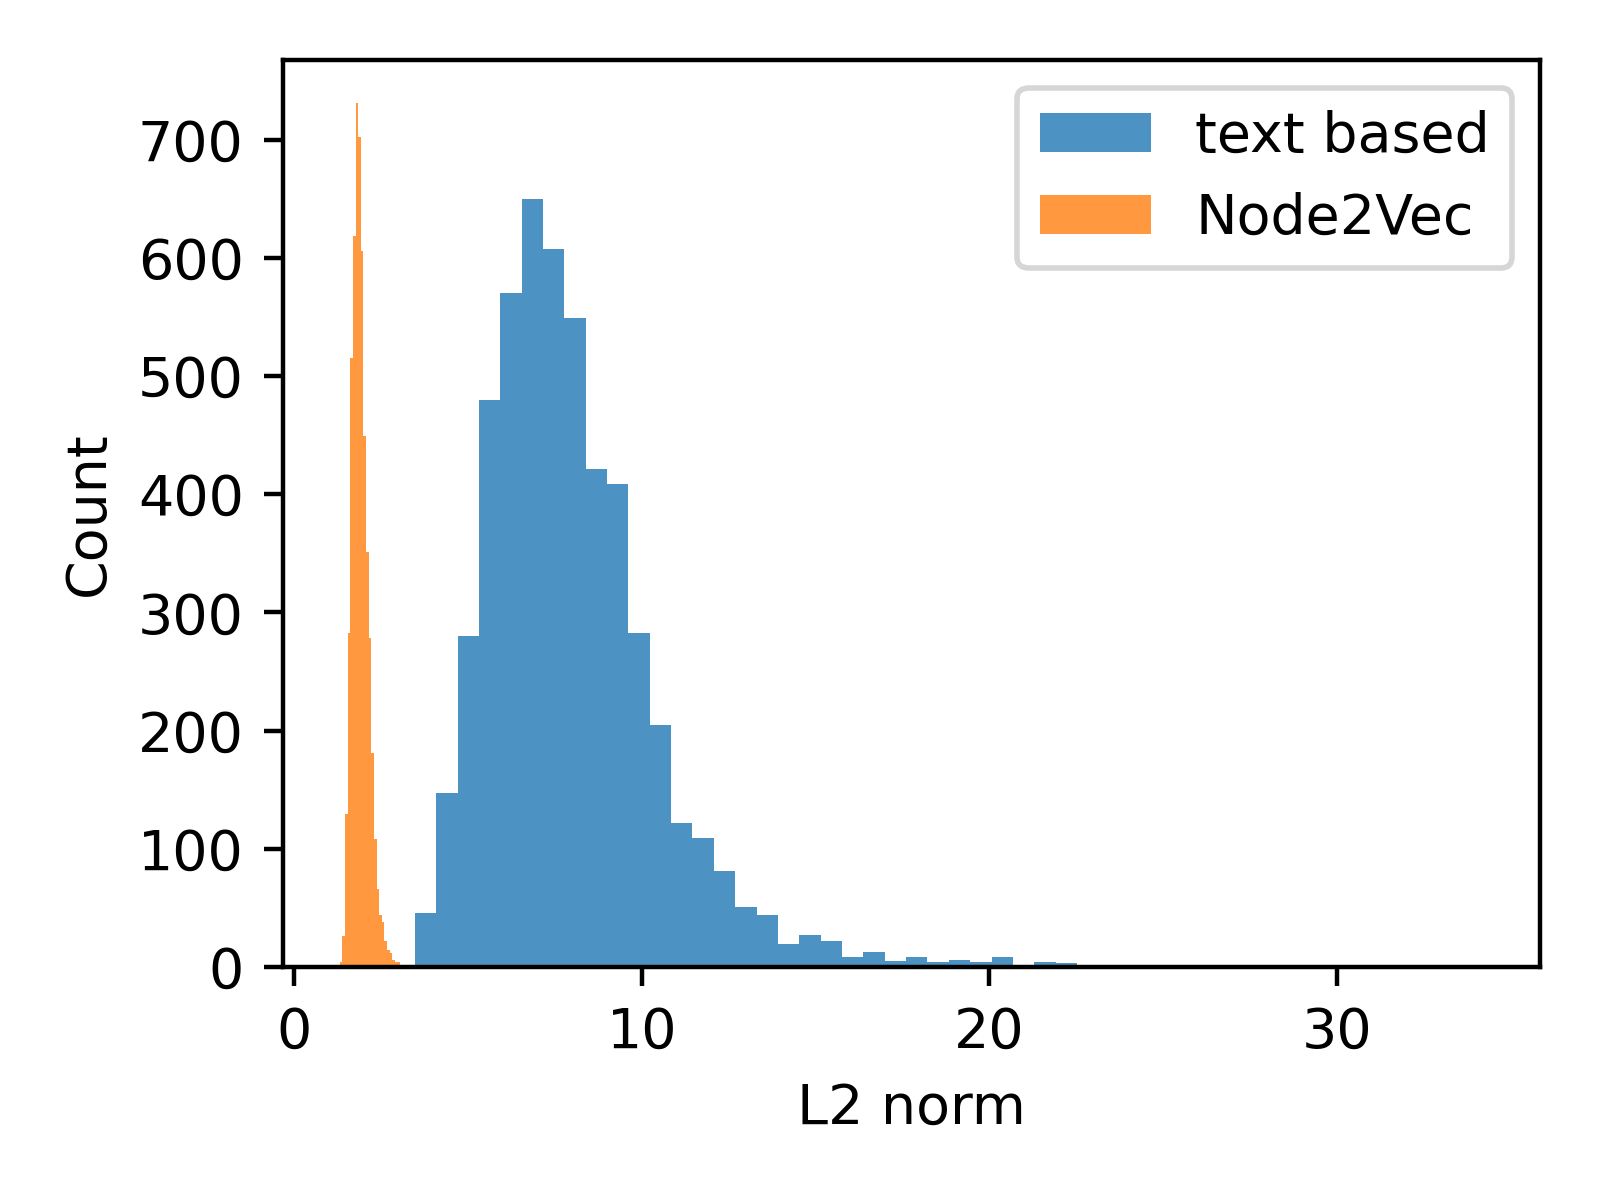
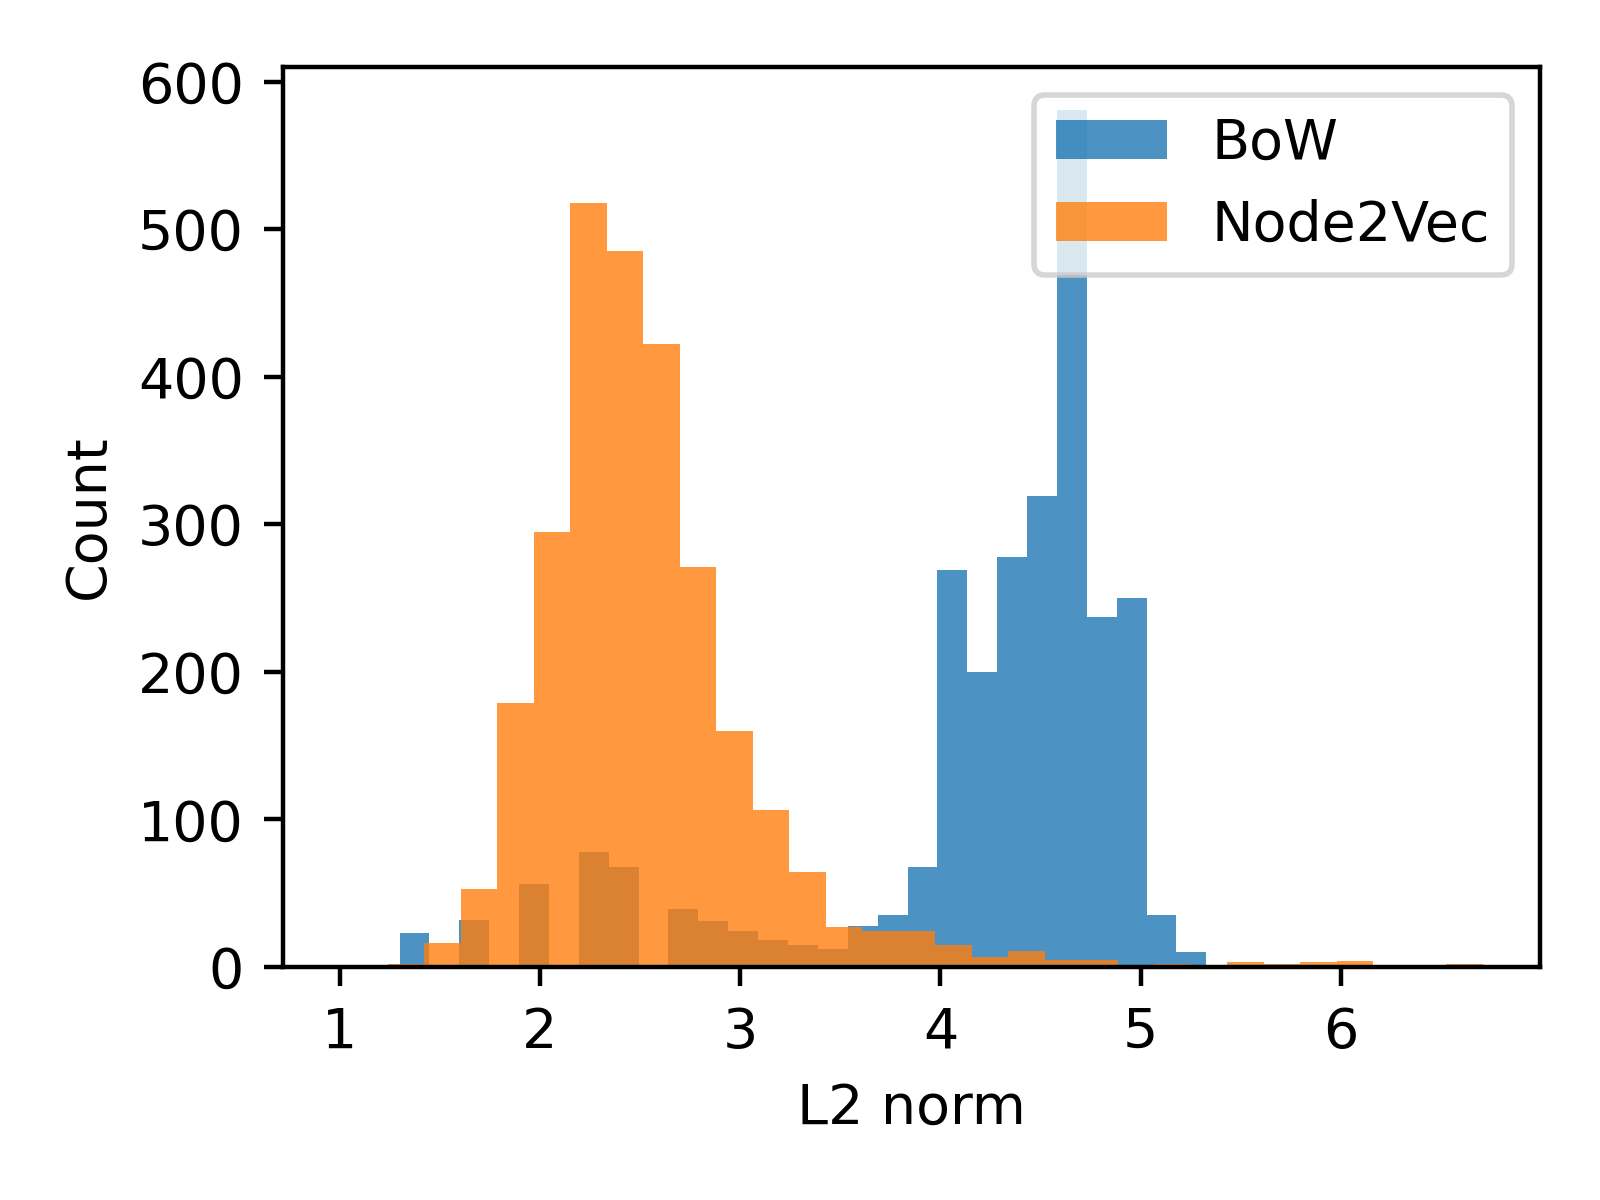
Improve introduction and N2V

diff --git a/docs/use_cases/node2vec.md b/docs/use_cases/node2vec.md
@@ -2,18 +2,18 @@
 
 ## Introduction
 
-Information comes in various forms such as text, images, relations and more, each capturing a different perspective of the world. Relations are particularly interesting because they capture the interactions between different entities and can provide insights into the structure and dynamics of the network they form. In this post, we will focus on how we can leverage relational information to learn meaningful representations of entities in a network. 
+Different types of information, like words, pictures, and connections between things, show us different sides of the world. Relationships, especially, are interesting because they show how things interact and create networks. In this article, we'll talk about how we can use these relationships to understand and describe things in a network better.
 
-We will introduce two node representation learning techniques, Node2Vec trough an example dataset. This dataset is …
+We're diving into a real-life example to explain how entities can be turned into vectors using their connections, a common practice in machine learning. The dataset we're going to work with is the a subset of the Cora citation network. It comprises 2708 scientific papers (nodes) and the connections indicate citations between them. Each paper has a BoW (Bag-of-Words) descriptor. The challenge at hand involves predicting the specific scientific category to which each paper belongs to, selecting from a pool of seven distinct categories.
 
-We can load the dataset as follows:
+The dataset can be loaded as follows:
 
 ```python
-from torch_geometric.datasets import AttributedGraphDataset
-ds = AttributedGraphDataset("./data", "wiki")[0]
+from torch_geometric.datasets import Planetoid
+ds = Planetoid("./data", "Cora")[0]
 ```
 
-We will evaluate representations by measuring classification performance on this dataset. A KNN classifier will be used with 15 neighbors and cosine similarity as the similarity metric. Accuracy and Macro F1 scores will be computed to measure the classification performance.
+We will evaluate representations by measuring the classification performance (Accuracy and macro F1). We'll use a KNN (K-Nearest Neighbors) classifier with 15 neighbors and cosine similarity as the similarity metric:
 
 ```python
 from sklearn.neighbors import KNeighborsClassifier
@@ -30,41 +30,41 @@ def evaluate(x,y):
     print("F1 macro", f1_score(y_test, y_pred, average="macro"))
 ```
 
-First, we will explore how text-based representations can be used to solve the classification problem:
+First, we'll see how the BoW representations can be used to solve the classification problem:
 
 ```python
 evaluate(ds.x, ds.y)
->>> Accuracy 0.849
->>> F1 macro 0.849
+>>> Accuracy 0.735
+>>> F1 macro 0.697
 ```
 
 This is not bad, let’s see if we can do better by utilizing relational information.
 
 ## Learning node embeddings with Node2Vec
 
-Before delving into the details, let's briefly understand node embeddings. These are vector representations of nodes in a network, similar to how we convert words into vectors, such as Word2Vec. Essentially, these representations capture the structural role and properties of the nodes in the network.
+Before delving into the details, let's briefly understand node embeddings. These are vector representations of nodes in a network. Essentially, these representations capture the structural role and properties of the nodes in the network.
 
 Node2Vec is an algorithm that employs the Skip-Gram method to learn node representations. It operates by modeling the conditional probability of encountering a context node given a source node in node sequences (random walks):
 
 `P(context∣source) ~ exp(⟨w[context],w[source]⟩)`
 
-The embeddings (`w`) are learned by maximizing the co-occurance probability for (source,context) pairs drawn from the true data distribution (positive pairs), and at the same time minimizing pairs that are drawn from a synthetic noise distribution. This process ensures that the embedding vectors of similar nodes are close in the embedding space, while dissimilar nodes are further apart.
+The embeddings (`w`) are learned by maximizing the co-occurance probability for (source,context) pairs drawn from the true data distribution (positive pairs), and at the same time minimizing for pairs that are drawn from a synthetic noise distribution. This process ensures that the embedding vectors of similar nodes are close in the embedding space, while dissimilar nodes are further apart (w.r.t. dot product).
 
-The random walks are sampled according to a policy, which is guided by 2 parameters: return (p), and in-out (q).
+The random walks are sampled according to a policy, which is guided by 2 parameters: return `p`, and in-out `q`.
 
-- The return parameter (p) impacts the likelihood of returning to the previous node. A higher p leads to more locally focused walks.
-- The in-out parameter (q) affects the likelihood of visiting nodes in the same or different neighborhood. A higher q encourages Depth First Search, while a lower q promotes Breadth First Search.
+- The return parameter `p` impacts the likelihood of returning to the previous node. A higher p leads to more locally focused walks.
+- The in-out parameter `q` affects the likelihood of visiting nodes in the same or different neighborhood. A higher q encourages Depth First Search, while a lower q promotes Breadth First Search.
 
 These parameters provide a balance between neighborhood exploration and local context. Adjusting p and q can be used to capture different characteristics of the graph.
 
 ### Node2Vec embeddings
 
-In our example, we use the `torch_geometric` implementation. We initialize the model by specifying the following attributes:
+In our example, we use the `torch_geometric` implementation of the Node2Vec algorithm. We initialize the model by specifying the following attributes:
 
-- `edge_index`: This is a tensor containing the graph's edges in an edge list format.
-- `embedding_dim`: This denotes the number of dimensional embeddings we desire.
+- `edge_index`: a tensor containing the graph's edges in an edge list format.
+- `embedding_dim`: specifies the dimensionality of the embedding vectors.
 
-By default, the `p` and `q` parameters are set to 1, resulting in ordinary random walks.
+By default, the `p` and `q` parameters are set to 1, resulting in ordinary random walks. For additional configuration of the model, please refer to the [documentation](https://pytorch-geometric.readthedocs.io/en/latest/generated/torch_geometric.nn.models.Node2Vec.html).
 
 ```python
 from torch_geometric.nn import Node2Vec
@@ -87,7 +87,7 @@ loader = n2v.loader(batch_size=128, shuffle=True, num_workers=4)
 optimizer = torch.optim.SparseAdam(n2v.parameters(), lr=0.01)
 ```
 
-In the block below, we conduct the actual model training: We iterate over the training batches, calculate the loss, and apply gradient steps.
+In the code block below, we conduct the actual model training: We iterate over the training batches, calculate the loss, and apply gradient steps.
 
 ```python
 n2v.train()
@@ -107,46 +107,34 @@ Finally, now that we have a fully trained model, we can evaluate the learned emb
 ```python
 embeddings = n2v().detach().cpu() # Access node embeddings
 evaluate(embeddings, ds.y)
->>> Accuracy: 0.628
->>> F1 macro: 0.617
+>>> Accuracy: 0.822
+>>> F1 macro: 0.800
 ```
 
-This is worse than the text based embeddings, but remember, this graph describes our entities from an other perspective - this is not the same information as the text based embeddings. Let’s see if we can improve by combining the two embeddings.
+This is better than the BoW representations! Let’s see if we can improve by combining the two embeddings.
 
 ### Node2Vec + Text based embeddings
 
-A straightforward method to combine embeddings from different sources is by concatenating them dimension-wise. For instance, suppose we have text-based embeddings `v_text` and Node2Vec embeddings `v_n2v`. The fused representation would then be `v_fused = torch.cat((v_n2v, v_text), dim=1)`. If these new embeddings are input into a KNN algorithm that uses dot product similarity, the resulting scores would equate to the sum of the individual text-based and Node2Vec scores. However, before combining the two representations, let’s look at the L2 norm distribution of both embeddings:
+A straightforward method to combine embeddings from different sources is by concatenating them dimension-wise. We have BoW features `v_bow` and Node2Vec embeddings `v_n2v`. The fused representation would then be `v_fused = torch.cat((v_n2v, v_bow), dim=1)`. However, before combining the two representations, let’s look at the L2 norm distribution of both embeddings:
 
 ![L2 norm distribution of text based and Node2Vec embeddings](../assets/use_cases/node2vec/l2_norm.png)
 
-From the plot, it's evident that the scales of the embedding vector lengths differ. When we want to use them together, the one with the larger magnitude will overshadow the smaller one. To mitigate this, we'll equalize their lengths by dividing each one by its average length. However, this still not necessarily yields the best performance. To optimally combine the two embeddings, we'll introduce a weighting factor: `x = torch.cat((alpha * v_n2v, v_text), dim=1)`. To determine the appropriate `alpha` value, we'll employ a 1D grid search approach. The results of this approach are displayed in the subsequent graph.
+From the plot, it's clear that the scales of the embedding vector lengths differ. When we want to use them together, the one with the larger magnitude will overshadow the smaller one. To mitigate this, we'll equalize their lengths by dividing each one by its average length. However, this still not necessarily yields the best performance. To optimally combine the two embeddings, we'll introduce a weighting factor: `x = torch.cat((alpha * v_n2v, v_bow), dim=1)`. To determine the appropriate value for `alpha`, we'll employ a 1D grid search approach. The results of this approach are displayed in the subsequent graph.
 
 ![Grid search for alpha](../assets/use_cases/node2vec/grid_search_alpha.png)
 
-Now, we can evaluate the combined representation using the score of alpha that we've obtained (0.388).
+Now, we can evaluate the combined representation using the score of alpha that we've obtained (0.569).
 
 ```python
 v_n2v = normalize(n2v().detach().cpu())
-v_text = normalize(ds.x)
+v_bow = normalize(ds.x)
 
-x = np.concatenate((best_alpha*v_n2v,v_text), axis=1)
+x = np.concatenate((best_alpha*v_n2v,v_bow), axis=1)
 evaluate(x, ds.y)
->>> Accuracy 0.901
->>> F1 macro 0.900
+>>> Accuracy 0.856
+>>> F1 macro 0.829
 ```
-
-## Conclusion
-
-
-| Embedding | Text Based | Node2Vec | Combined |
-| --- | --- | --- | --- |
-| F1 (macro) |  0.001 | 0.0055 | **0.065** |
-| Accuracy |  0.003 | 0.0154 | **0.150** |
-
----
-## Contributors
-
-- [Richárd Kiss, author](https://www.linkedin.com/in/richard-kiss-3209a1186/)
+The results show that by combining the representations obtained from solely the network structure and text of the paper can improve performance. Specifically, in our case, this fusion contributed to a 4% improvement.
 
 ---
 
@@ -224,3 +212,17 @@ for epoch in range(1, 50):
     loss = train()
     print(f'Epoch: {epoch:03d}, Loss: {loss:.4f}')
 ```
+
+
+## Conclusion
+
+
+| Embedding | Text Based | Node2Vec | Combined |
+| --- | --- | --- | --- |
+| F1 (macro) |  0.849 | 0.617 | **0.900** |
+| Accuracy |  0.849 | 0.628 | **0.901** |
+
+---
+## Contributors
+
+- [Richárd Kiss, author](https://www.linkedin.com/in/richard-kiss-3209a1186/)
